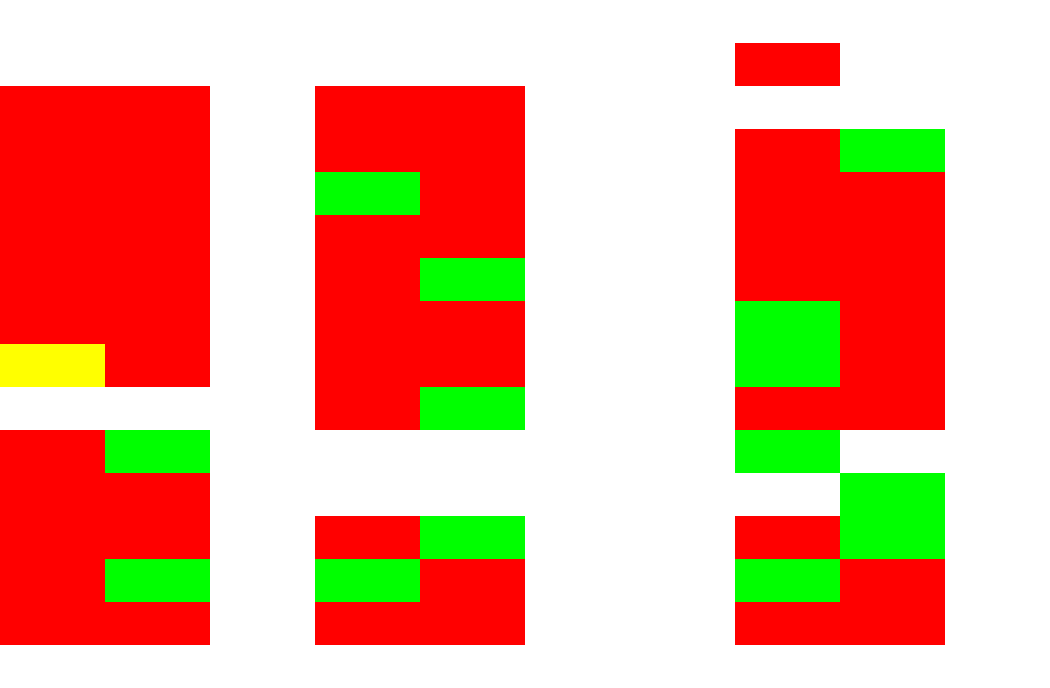
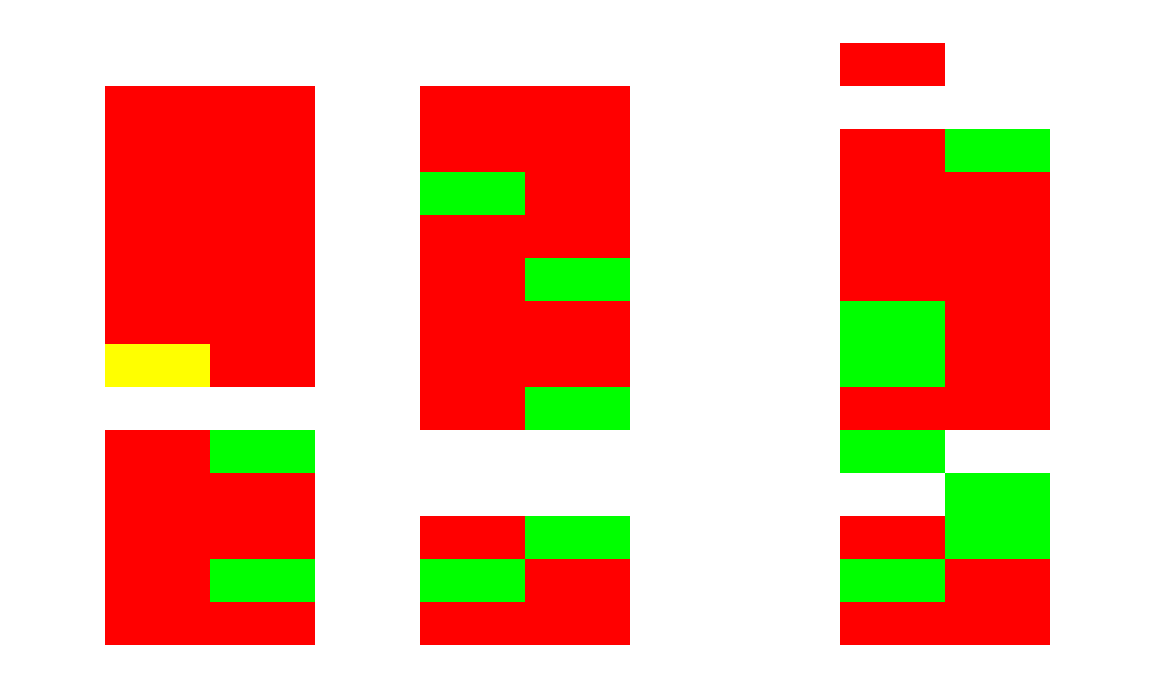
update parking_lot_map.json

diff --git a/api/test.py b/api/test.py
@@ -6,6 +6,10 @@ def draw_from_json(filename, output_image_path, width, height):
     with open(filename, 'r') as file:
         parking_lot_map = json.load(file)
 
+    parking_lot_map = [[0] + row for row in parking_lot_map]
+    with open(filename, 'w') as file:
+        json.dump(parking_lot_map, file)
+
     # Create an empty black image
     image_height = len(parking_lot_map) * height
     image_width = len(parking_lot_map[0]) * width
